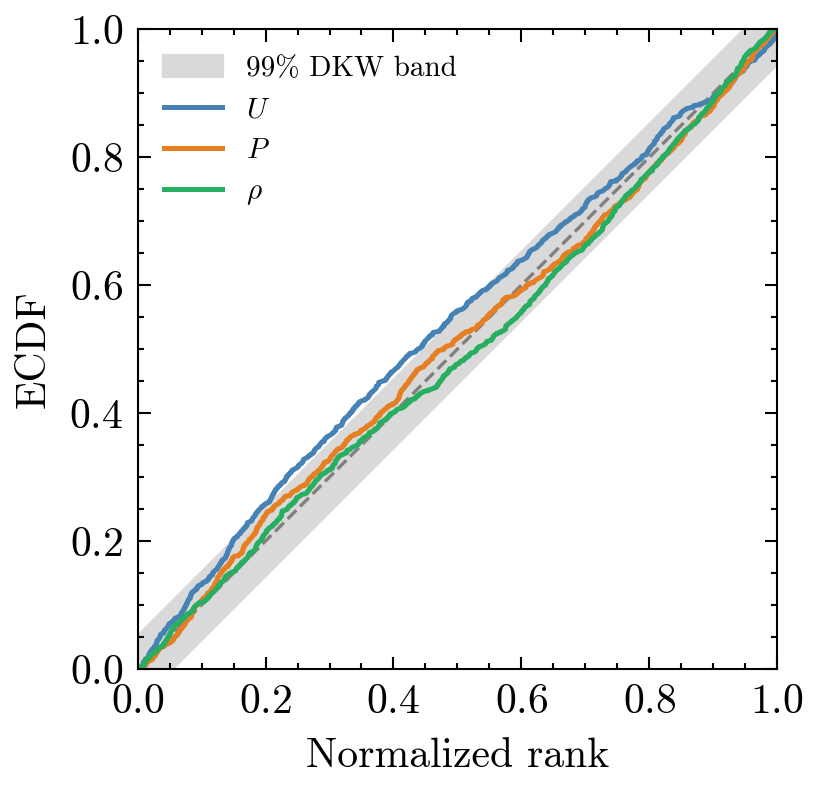
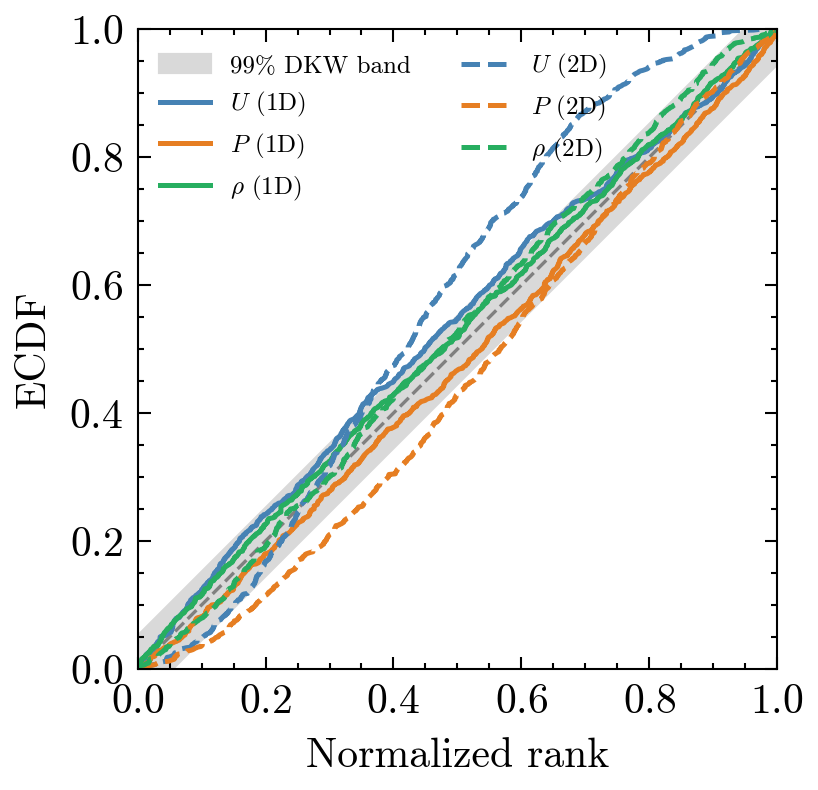
Move SBC reparam comparison into paper_figures.py for consistent styling
Generate Figure 9 (baseline vs reparameterized SBC) via make_sbc_reparam_plot()
using the same scienceplots style as Figure 8, fixing font, axes, and line width
mismatches from the standalone script. Also regenerate Model A figures.

diff --git a/results/paper_figures.py b/results/paper_figures.py
@@ -155,7 +155,8 @@ def _labels_and_ranges(model: str):
 # Figure A: Corner plots (1D NPE)
 # ---------------------------------------------------------------------------
 
-def make_corner_plot(model: str, approach: str, output_dir: Path, fmt: str):
+def make_corner_plot(model: str, approach: str, output_dir: Path, fmt: str,
+                     fig_width: float = None):
     """Single corner plot from NPE posterior.
 
     Parameters
@@ -168,6 +169,9 @@ def make_corner_plot(model: str, approach: str, output_dir: Path, fmt: str):
         Directory for output figures.
     fmt : str
         File format ('pdf' or 'png').
+    fig_width : float, optional
+        Override figure width in inches. When None, uses the default logic
+        (SINGLE_COL_WIDTH_IN for <=2 params, DOUBLE_COL_WIDTH_IN otherwise).
     """
     data = load_results(model, approach)
     samples = data["posterior_samples"].copy()
@@ -187,7 +191,10 @@ def make_corner_plot(model: str, approach: str, output_dir: Path, fmt: str):
     suffix = "1d" if approach == "npe" else "2d"
 
     n_params = len(labels)
-    width = SINGLE_COL_WIDTH_IN if n_params <= 2 else DOUBLE_COL_WIDTH_IN
+    if fig_width is not None:
+        width = fig_width
+    else:
+        width = SINGLE_COL_WIDTH_IN if n_params <= 2 else DOUBLE_COL_WIDTH_IN
     title_fs = 8 if n_params <= 2 else 11
     label_fs = 9 if n_params <= 2 else 12
 
@@ -518,6 +525,90 @@ def make_sbc_plot(model: str, output_dir: Path, fmt: str, approach: str = "npe")
 
 
 # ---------------------------------------------------------------------------
+# Figure D2: SBC reparameterization comparison (baseline vs reparam, Model A)
+# ---------------------------------------------------------------------------
+
+BASELINE_PARAMS = ["U", "P", r"$\rho$"]
+REPARAM_PARAMS = ["U", "D", "v"]
+
+COLORS_BASELINE = {"U": "#4682B4", "P": "#E67E22", r"$\rho$": "#27AE60"}
+COLORS_REPARAM = {"U": "#4682B4", "D": "#E67E22", "v": "#27AE60"}
+
+
+def make_sbc_reparam_plot(output_dir: Path, fmt: str):
+    """Two-panel SBC rank ECDF: baseline (U,P,rho) vs reparameterized (U,D,v).
+
+    Uses the same styling as make_sbc_plot() so the output matches Figure 8.
+    """
+    diag_base = load_diagnostics("A", "npe2d")
+    diag_repa = load_diagnostics("A_reparam", "npe2d")
+
+    ranks_base = diag_base["sbc_ranks"]
+    ranks_repa = diag_repa["sbc_ranks"]
+    if isinstance(ranks_base, torch.Tensor):
+        ranks_base = ranks_base.numpy()
+    if isinstance(ranks_repa, torch.Tensor):
+        ranks_repa = ranks_repa.numpy()
+
+    n_sbc_base = ranks_base.shape[0]
+    n_sbc_repa = ranks_repa.shape[0]
+    ranks_base_norm = ranks_base / ranks_base.max()
+    ranks_repa_norm = ranks_repa / ranks_repa.max()
+
+    fig, (ax_base, ax_repa) = plt.subplots(
+        1, 2,
+        figsize=(SINGLE_COL_WIDTH_IN * 2, SINGLE_COL_WIDTH_IN * 0.85),
+        sharey=True,
+    )
+
+    for ax, ranks_norm, n_sbc, param_labels, colors, title in [
+        (ax_base, ranks_base_norm, n_sbc_base, BASELINE_PARAMS,
+         COLORS_BASELINE, r"Baseline $(U, P, \rho)$"),
+        (ax_repa, ranks_repa_norm, n_sbc_repa, REPARAM_PARAMS,
+         COLORS_REPARAM, r"Reparameterized $(U, D, v)$"),
+    ]:
+        # Diagonal reference
+        ax.plot([0, 1], [0, 1], ls="--", color="0.5", lw=0.8, zorder=1)
+
+        # DKW 99% confidence band
+        alpha = 0.01
+        epsilon = np.sqrt(np.log(2.0 / alpha) / (2 * n_sbc))
+        t = np.linspace(0, 1, 200)
+        ax.fill_between(
+            t,
+            np.clip(t - epsilon, 0, 1),
+            np.clip(t + epsilon, 0, 1),
+            color="0.85", zorder=0, label="99% DKW band",
+        )
+
+        # ECDFs
+        ecdf_y = np.arange(1, n_sbc + 1) / n_sbc
+        n_params = ranks_norm.shape[1]
+        for j in range(n_params):
+            name = param_labels[j]
+            sorted_ranks = np.sort(ranks_norm[:, j])
+            color = colors[name]
+            label = f"${name}$" if not name.startswith("$") else name
+            ax.plot(sorted_ranks, ecdf_y, color=color, lw=1.2, ls="-",
+                    label=label, zorder=2)
+
+        ax.set_xlabel("Normalized rank")
+        ax.set_xlim(0, 1)
+        ax.set_ylim(0, 1)
+        ax.set_aspect("equal")
+        ax.set_title(title)
+        ax.legend(fontsize=6, loc="upper left")
+
+    ax_base.set_ylabel("ECDF")
+
+    fig.tight_layout(w_pad=1.5)
+    outfile = output_dir / f"sbc_model_A_reparam_comparison.{fmt}"
+    fig.savefig(outfile, dpi=DPI, bbox_inches="tight")
+    plt.close(fig)
+    print(f"  Saved {outfile}")
+
+
+# ---------------------------------------------------------------------------
 # CLI
 # ---------------------------------------------------------------------------
 
@@ -555,9 +646,13 @@ def main():
         print(f"--- Model {model} ---")
 
         # Corner plots for both 1D and 2D
+        # Model A corner plots use the same figure width as the reparam plot
+        # so text sizes match when LaTeX renders them side-by-side in Figure 5.
+        corner_width = SINGLE_COL_WIDTH_IN * 1.4 if model == "A" else None
         for approach in ["npe", "npe2d"]:
             try:
-                make_corner_plot(model, approach, output_dir, fmt)
+                make_corner_plot(model, approach, output_dir, fmt,
+                                 fig_width=corner_width)
             except FileNotFoundError as e:
                 print(f"  SKIP corner {approach}: {e}")
 
@@ -582,6 +677,10 @@ def main():
             make_reparam_corner_comparison(output_dir, fmt)
         except FileNotFoundError as e:
             print(f"  SKIP reparam comparison: {e}")
+        try:
+            make_sbc_reparam_plot(output_dir, fmt)
+        except FileNotFoundError as e:
+            print(f"  SKIP SBC reparam comparison: {e}")
         print()
 
     print("Done.")
